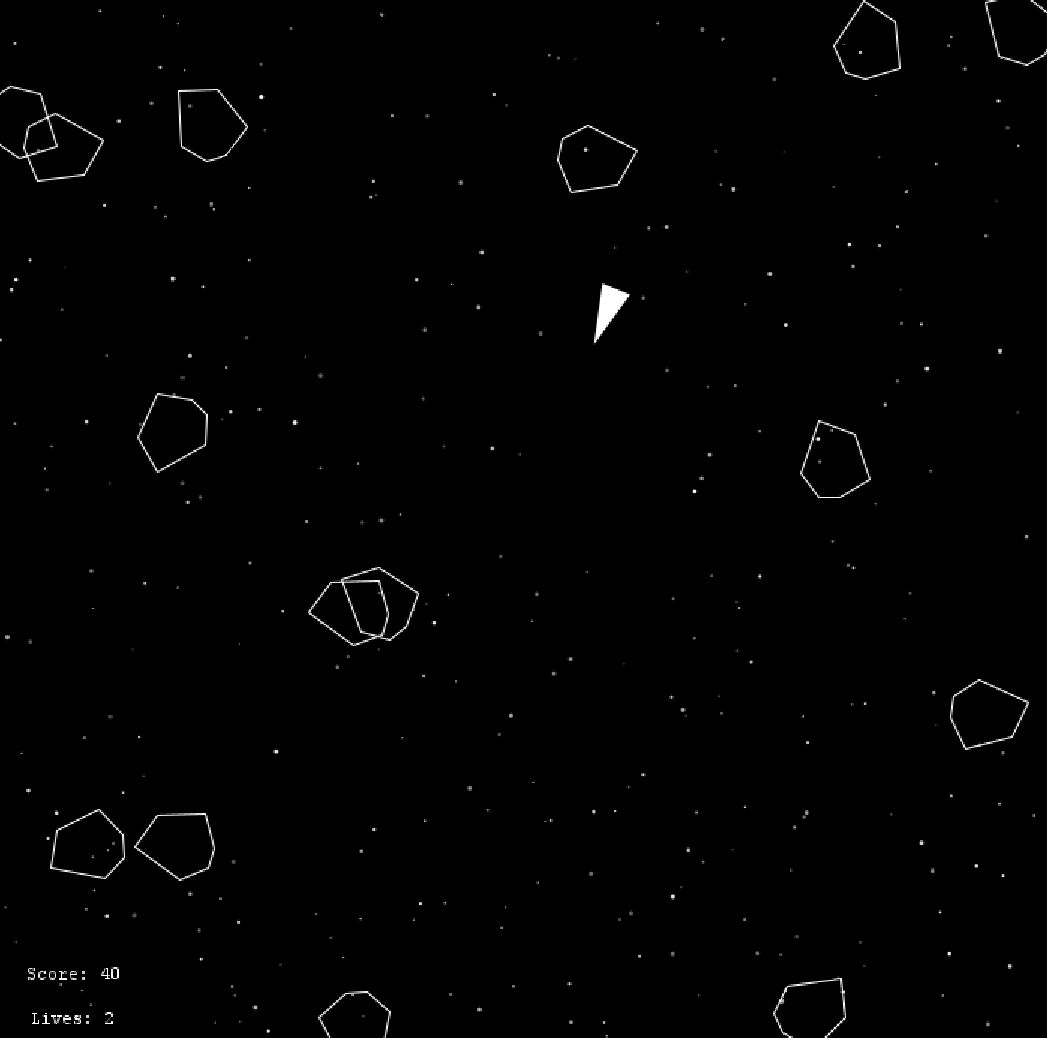
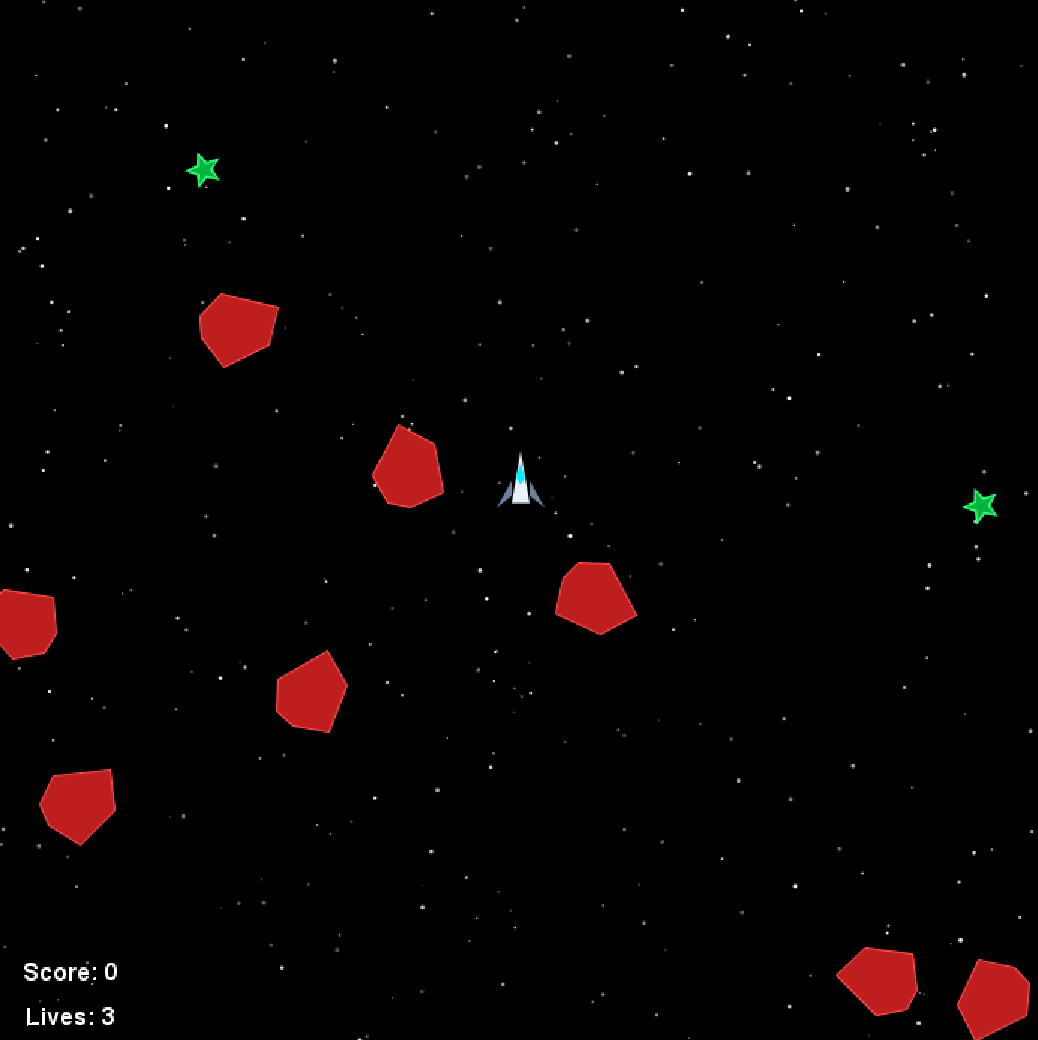
Update README, .gitignore, and screenshots

diff --git a/README.md b/README.md
@@ -1,6 +1,6 @@
-# 🚀 Asteroids
+# Asteroids
 
-A classic **Asteroids** arcade game written in Java, built on Princeton's [StdDraw](https://introcs.cs.princeton.edu/java/stdlib/StdDraw.java.html) graphics library.
+A classic Asteroids arcade game written in Java, built on Princeton's [StdDraw](https://introcs.cs.princeton.edu/java/stdlib/StdDraw.java.html) graphics library.
 
 ![Java](https://img.shields.io/badge/Java-8%2B-orange?logo=java)
 ![License](https://img.shields.io/badge/License-MIT-blue)
@@ -10,7 +10,7 @@ A classic **Asteroids** arcade game written in Java, built on Princeton's [StdDr
 
 ## Gameplay
 
-Navigate your ship through a field of drifting asteroids. Shoot them down to rack up points — but don't let them hit you! You have **3 lives**. Lose them all and it's game over.
+Navigate your ship through a field of drifting asteroids. Shoot them down to rack up points — but don't let them hit you! You have 3 lives. Lose them all and it's game over.
 
 ### Controls
 
@@ -24,7 +24,7 @@ Navigate your ship through a field of drifting asteroids. Shoot them down to rac
 
 ### Scoring
 
-- Each asteroid destroyed: **+20 points**
+* Each asteroid destroyed: **+20 points**
 
 ---
 
@@ -32,6 +32,9 @@ Navigate your ship through a field of drifting asteroids. Shoot them down to rac
 
 ```
 AsteroidsGame/
+├── screenshots/
+│   ├── main_menu.png         # Main menu screenshot
+│   └── gameplay.png          # Gameplay screenshot
 ├── src/
 │   ├── GameDriver.java       # Entry point; manages START / PLAYING / GAME_OVER states
 │   ├── AsteroidsGame.java    # Core game loop (update + draw)
@@ -45,8 +48,12 @@ AsteroidsGame/
 │   ├── VelocityVector.java   # 2-D velocity vector
 │   ├── GameConstants.java    # Screen size, colors, timing constants
 │   ├── GameUtils.java        # Drawing helpers (triangles, polygons, thrust)
+│   ├── SoundEffect.java      # Audio effects for shooting, explosions, and powerups
+│   ├── PowerUp.java          # Shield power-up mechanics
 │   └── StdDraw.java          # Princeton StdDraw graphics library (bundled)
-└── README.md
+├── .gitignore                # Git exclusions (bytecode, highscore, IDE files)
+├── LICENCE                   # Project license (MIT)
+└── README.md                 # Project documentation
 ```
 
 ---
@@ -55,7 +62,7 @@ AsteroidsGame/
 
 ### Requirements
 
-- Java 8 or later ([download](https://www.java.com/en/download/))
+* Java 8 or later ([download](https://www.java.com/en/download/))
 
 ### Compile & Run
 
@@ -65,16 +72,24 @@ javac src/*.java -d out
 java -cp out GameDriver
 ```
 
-## Screenshots
-
-[//]: # (Add screenshot links here)
-
 Or in one step (Java 11+):
 
 ```bash
 cd src
 javac *.java && java GameDriver
 ```
+
+---
+
+## Screenshots
+
+### Main Menu
+![Main Menu](screenshots/main_menu.png)
+
+### Gameplay
+![Gameplay](screenshots/gameplay.png)
+
+---
 
 ## Architecture Overview
 
@@ -87,19 +102,20 @@ GameDriver  ──controls──►  AsteroidsGame
                │               │
              Burst[]       SpaceObject (abstract)
                                │
-                          Position / VelocityVector
+                           Position / VelocityVector
 ```
 
 All moving objects extend `SpaceObject`, which handles wrap-around screen movement via modular arithmetic on the canvas dimensions.
 
 ---
 
-## Known Issues / Future Ideas
+## Features
 
-- [x] Sound effects
-- [x] High-score persistence
-- [x] Multiple asteroid sizes with split-on-hit behaviour
-- [x] Shield power-up
+* Sound effects for shooting, power-ups, and explosions
+* High-score persistence across sessions
+* Multiple asteroid sizes with split-on-hit behavior
+* Glowing green star shield power-ups
+* Modern spaceship design with animated thrusters and solid-filled glowing red asteroids
 
 ---
 